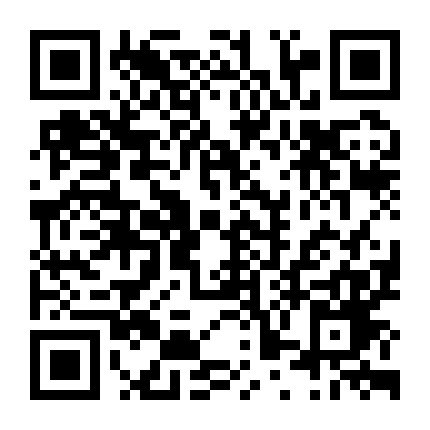
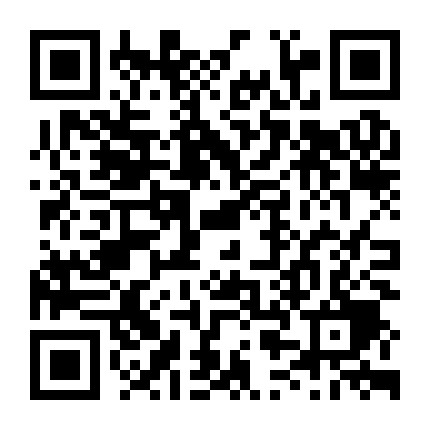
微信不支持网页端登录，暂时不能用，有时间再看看桌面端的

diff --git a/wechat_tools/Program.cs b/wechat_tools/Program.cs
@@ -1,12 +1,25 @@
 // See https://aka.ms/new-console-template for more information
-using System.Diagnostics;
+using System.Text;
+using System.Text.RegularExpressions;
 using Microsoft.Extensions.Configuration;
 using Microsoft.Extensions.DependencyInjection;
 using Microsoft.Extensions.Hosting;
+using Serilog;
 
-Console.WriteLine("Hello, World!");
 
-Stopwatch watch = new();
+// 配置 Serilog
+Log.Logger = new LoggerConfiguration()
+    .MinimumLevel.Debug()
+    .WriteTo.Console()
+    .WriteTo.File("log.txt", rollingInterval: RollingInterval.Day) // 写入文件
+    .CreateLogger();
+
+
+Log.Debug("Hello, World!");
+// 注册编码提供程序，否则某些响应貌似返回gbk，导致ReadAsStringAsync失败
+Encoding.RegisterProvider(CodePagesEncodingProvider.Instance);
+
+// Stopwatch watch = new();
 // 创建主机
 var host = Host.CreateDefaultBuilder(args).ConfigureAppConfiguration((ctx, config) => {
     // 移除默认的 appsettings.json
@@ -21,10 +34,26 @@ var configuration = host.Services.GetRequiredService<IConfiguration>();
 // 访问配置项
 var setting1 = configuration["Logging:LogLevel:Microsoft"];
 var setting2 = configuration["ConnectionStrings:DefaultConnection"];
-Console.WriteLine($"Setting1: {setting1}, setting2: {setting2}");
+Log.Debug($"Setting1: {setting1}, setting2: {setting2}");
 
+// 当前时间秒值
 static long curTime() {
     return (long)(DateTime.Now.ToUniversalTime() - new DateTime(1970, 1, 1)).TotalSeconds;
+}
+
+static Dictionary<string, string> decodeWXRsp(string rspBody) {
+    Dictionary<string, string> result = [];
+    var regex = new Regex(@"([a-zA-Z_][a-zA-Z0-9_.]*)\s*=\s*(['\""]?)(.*?)\2(?=\s*;|$)", RegexOptions.Singleline);
+    var matches = regex.Matches(rspBody);
+    foreach (Match match in matches) {
+        if (match.Groups.Count == 4) {
+            string key = match.Groups[1].Value;
+            string value = match.Groups[3].Value;
+
+            result[key] = value;
+        }
+    }
+    return result;
 }
 
 // 参见 https://www.cnblogs.com/chenxizhaolu/p/8426286.html
@@ -35,7 +64,7 @@ using (HttpClient client = new()) {
     var rspBody = await rsp.Content.ReadAsStringAsync();
 
     var cookie = string.Join(',', rsp.Headers.GetValues("Set-Cookie"));
-    Console.WriteLine($"rspBody: html没必要打印，长度: {rspBody.Length}, cookie: {cookie}");
+    Log.Information($"1. cookie: rspBody: html没必要打印，长度: {rspBody.Length}, cookie: {cookie}");
 
     client.DefaultRequestHeaders.Add("session", "");
     client.DefaultRequestHeaders.Add("cookie", cookie);
@@ -44,35 +73,65 @@ using (HttpClient client = new()) {
     rsp = await client.GetAsync($"https://wx.qq.com/jslogin?appid=wx782c26e4c19acffb&fun=new&lang=en_US&_={curTime()}&redirect_uri=https://wx.qq.com/cgi-bin/mmwebwx-bin/webwxnewloginpage");
     rsp.EnsureSuccessStatusCode();
     rspBody = await rsp.Content.ReadAsStringAsync();
-    Console.WriteLine($"rspBody: {rspBody}, headers: {rsp.Headers}");
+    Log.Information($"2. 二维码uuid: rspBody: {rspBody}, headers: {rsp.Headers}");
 
-    string? uuid = null;
-    foreach (var item in rspBody.Split(";")) {
-        var v = item.Trim();
-        if (v.StartsWith("window.QRLogin.uuid")) {
-            uuid = v[(v.IndexOf('=') + 1)..v.Length].Trim()[1..^1];
-        }
-    }
-    if (uuid == null) {
-        Console.WriteLine("没获取到uuid");
+    if (!decodeWXRsp(rspBody).TryGetValue("window.QRLogin.uuid", out string? uuid)) {
+        Log.Error($"没获取到uuid, rsp={rspBody}");
         return;
     }
-    Console.WriteLine($"获取到了uuid({uuid})");
+    Log.Information($"获取到了uuid({uuid})");
 
     // 3. 下载和展示二维码
     rsp = await client.GetAsync($"https://wx.qq.com/qrcode/{uuid}");
     rsp.EnsureSuccessStatusCode();
     byte[] qrcode = await rsp.Content.ReadAsByteArrayAsync();
-    Console.WriteLine($"rspBody: {qrcode.Length}, headers: {rsp.Headers}");
-    await File.WriteAllBytesAsync("qrcode.jpg", qrcode);
+    Log.Information($"3. 二维码: rspBody: {qrcode.Length}, headers: {rsp.Headers}");
+    // 二维码
+    try {
+        await File.WriteAllBytesAsync("qrcode.jpg", qrcode);
+    } catch (Exception e) {
+        Log.Error($"write qrcode failed, e={e}");
+        return;
+    }
 
     // 4. 扫码和确认
     var now = curTime();
-    rsp = await client.GetAsync($"https://wx.qq.com/cgi-bin/mmwebwx-bin/login?loginicon=true&uuid={uuid}&r={now / 1524}&_={now}&tip=0");
+    rsp = await client.GetAsync($"https://wx.qq.com/cgi-bin/mmwebwx-bin/login?loginicon=true&uuid={uuid}&r={now / 1524}&_={now}");
     rsp.EnsureSuccessStatusCode();
     rspBody = await rsp.Content.ReadAsStringAsync();
-    // rspBody: window.code=201;window.userAvatar = 'xxxxx';(如果返回200还有redirect_uri)
-    Console.WriteLine($"4. 扫码和确认: rspBody: {rspBody}, headers: {rsp.Headers}");
+    // rspBody: window.code=201;window.userAvatar = 'xxxxx';
+    Console.WriteLine($"4. 扫码: headers: {rsp.Headers}");
+    if (!decodeWXRsp(rspBody).TryGetValue("window.userAvatar", out string? userAvatar)) {
+        Log.Error($"没获取到头像信息, rsp={rspBody}");
+        return;
+    }
+    try {
+        await File.WriteAllBytesAsync("user_avatar.jpg", Convert.FromBase64String(userAvatar.Replace("data:img/jpg;base64,", null)));
+    } catch (Exception e) {
+        Log.Error($"write userAvatar failed, userAvatar={userAvatar}, e={e}");
+        return;
+    }
+
+    // 5. 再请求一次，用来确认登录
+    now = curTime();
+    rsp = await client.GetAsync($"https://wx.qq.com/cgi-bin/mmwebwx-bin/login?loginicon=true&uuid={uuid}&r={now / 1524}&_={now}");
+    rsp.EnsureSuccessStatusCode();
+    rspBody = await rsp.Content.ReadAsStringAsync();
+    // rspBody: window.code=200;window.redirect_uri = 'xxxxx';
+    Log.Information($"5. 确认扫码: rspBody: {rspBody}, headers: {rsp.Headers}");
+    if (!decodeWXRsp(rspBody).TryGetValue("window.redirect_uri", out string? redirectUri)) {
+        Log.Error($"没获取到window.redirect_uri, rsp={rspBody}");
+        return;
+    }
+
+    // 6. 初始化页面、获取登录信息
+    rsp = await client.GetAsync(redirectUri);
+    rsp.EnsureSuccessStatusCode();
+    rspBody = await rsp.Content.ReadAsStringAsync();
+    // rspBody: window.code=200;window.redirect_uri = 'xxxxx';
+    Log.Information($"6. 转发页面: rspBody: {rspBody}, headers: {rsp.Headers}");
 }
+
+await Log.CloseAndFlushAsync();
 
 // host.Run();
